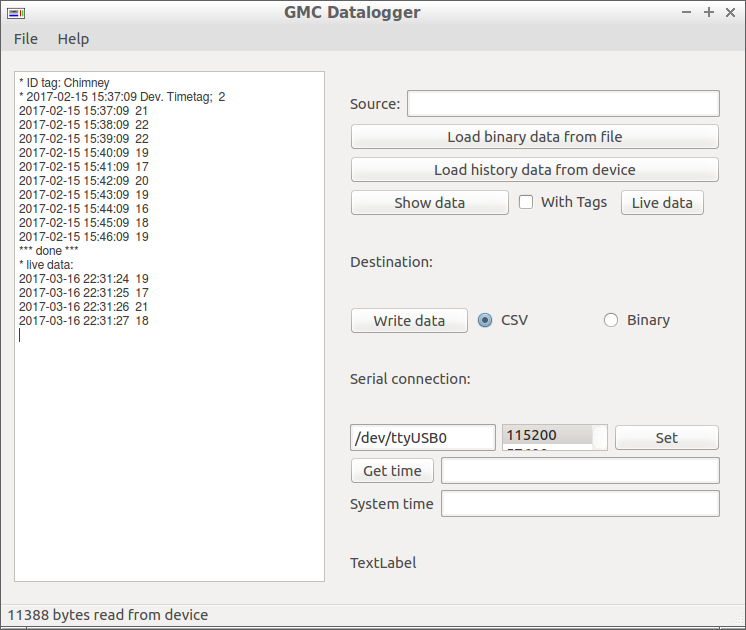
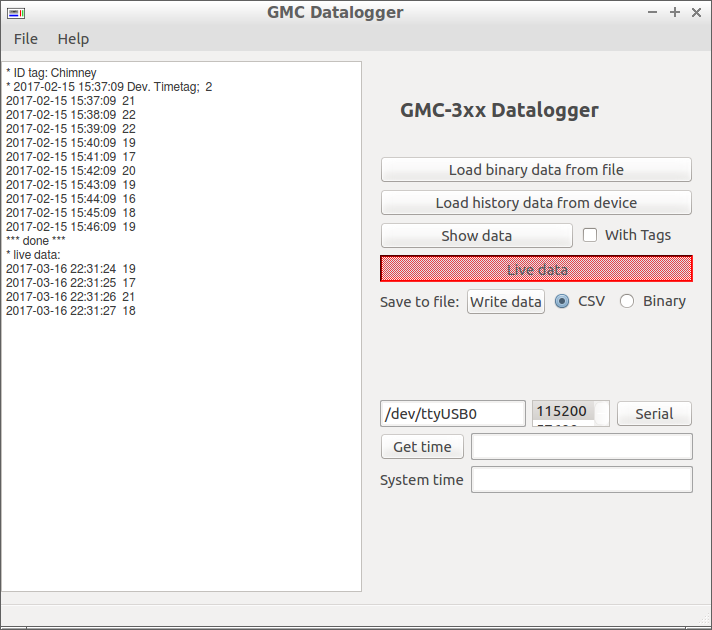
Add files via upload

diff --git a/gwcp3.py b/gwcp3.py
@@ -25,7 +25,7 @@ except AttributeError:
 class Ui_MainWindow(object):
     def setupUi(self, MainWindow):
         MainWindow.setObjectName(_fromUtf8("MainWindow"))
-        MainWindow.resize(744, 600)
+        MainWindow.resize(710, 600)
         sizePolicy = QtGui.QSizePolicy(QtGui.QSizePolicy.Ignored, QtGui.QSizePolicy.Ignored)
         sizePolicy.setHorizontalStretch(0)
         sizePolicy.setVerticalStretch(0)
@@ -34,25 +34,29 @@ class Ui_MainWindow(object):
         self.centralwidget = QtGui.QWidget(MainWindow)
         self.centralwidget.setObjectName(_fromUtf8("centralwidget"))
         self.plainTextEdit = QtGui.QPlainTextEdit(self.centralwidget)
-        self.plainTextEdit.setGeometry(QtCore.QRect(13, 20, 311, 511))
+        self.plainTextEdit.setGeometry(QtCore.QRect(0, 10, 361, 531))
         font = QtGui.QFont()
         font.setFamily(_fromUtf8("FreeSans"))
         font.setPointSize(9)
         self.plainTextEdit.setFont(font)
         self.plainTextEdit.setObjectName(_fromUtf8("plainTextEdit"))
         self.verticalLayoutWidget = QtGui.QWidget(self.centralwidget)
-        self.verticalLayoutWidget.setGeometry(QtCore.QRect(340, 30, 388, 614))
+        self.verticalLayoutWidget.setGeometry(QtCore.QRect(370, 10, 331, 441))
         self.verticalLayoutWidget.setObjectName(_fromUtf8("verticalLayoutWidget"))
         self.verticalLayout = QtGui.QVBoxLayout(self.verticalLayoutWidget)
         self.verticalLayout.setObjectName(_fromUtf8("verticalLayout"))
         self.horizontalLayout_2 = QtGui.QHBoxLayout()
         self.horizontalLayout_2.setObjectName(_fromUtf8("horizontalLayout_2"))
+        spacerItem = QtGui.QSpacerItem(20, 40, QtGui.QSizePolicy.Minimum, QtGui.QSizePolicy.Expanding)
+        self.horizontalLayout_2.addItem(spacerItem)
         self.label_9 = QtGui.QLabel(self.verticalLayoutWidget)
+        font = QtGui.QFont()
+        font.setPointSize(15)
+        font.setBold(True)
+        font.setWeight(75)
+        self.label_9.setFont(font)
         self.label_9.setObjectName(_fromUtf8("label_9"))
         self.horizontalLayout_2.addWidget(self.label_9)
-        self.lineEdit = QtGui.QLineEdit(self.verticalLayoutWidget)
-        self.lineEdit.setObjectName(_fromUtf8("lineEdit"))
-        self.horizontalLayout_2.addWidget(self.lineEdit)
         self.verticalLayout.addLayout(self.horizontalLayout_2)
         self.horizontalLayout = QtGui.QHBoxLayout()
         self.horizontalLayout.setObjectName(_fromUtf8("horizontalLayout"))
@@ -83,9 +87,6 @@ class Ui_MainWindow(object):
         self.checkBox = QtGui.QCheckBox(self.verticalLayoutWidget)
         self.checkBox.setObjectName(_fromUtf8("checkBox"))
         self.horizontalLayout_6.addWidget(self.checkBox)
-        self.pushButtonLiveData = QtGui.QPushButton(self.verticalLayoutWidget)
-        self.pushButtonLiveData.setObjectName(_fromUtf8("pushButtonLiveData"))
-        self.horizontalLayout_6.addWidget(self.pushButtonLiveData)
         self.label_12 = QtGui.QLabel(self.verticalLayoutWidget)
         self.label_12.setText(_fromUtf8(""))
         self.label_12.setObjectName(_fromUtf8("label_12"))
@@ -93,15 +94,21 @@ class Ui_MainWindow(object):
         self.verticalLayout_2.addLayout(self.horizontalLayout_6)
         self.horizontalLayout.addLayout(self.verticalLayout_2)
         self.verticalLayout.addLayout(self.horizontalLayout)
-        self.label_10 = QtGui.QLabel(self.verticalLayoutWidget)
-        self.label_10.setObjectName(_fromUtf8("label_10"))
-        self.verticalLayout.addWidget(self.label_10)
-        self.horizontalLayout_7 = QtGui.QHBoxLayout()
-        self.horizontalLayout_7.setObjectName(_fromUtf8("horizontalLayout_7"))
+        self.pushButtonLiveData = QtGui.QPushButton(self.verticalLayoutWidget)
+        self.pushButtonLiveData.setObjectName(_fromUtf8("pushButtonLiveData"))
+        self.verticalLayout.addWidget(self.pushButtonLiveData)
         self.verticalLayout_3 = QtGui.QVBoxLayout()
         self.verticalLayout_3.setObjectName(_fromUtf8("verticalLayout_3"))
         self.horizontalLayout_8 = QtGui.QHBoxLayout()
         self.horizontalLayout_8.setObjectName(_fromUtf8("horizontalLayout_8"))
+        self.label_10 = QtGui.QLabel(self.verticalLayoutWidget)
+        sizePolicy = QtGui.QSizePolicy(QtGui.QSizePolicy.Preferred, QtGui.QSizePolicy.Ignored)
+        sizePolicy.setHorizontalStretch(0)
+        sizePolicy.setVerticalStretch(0)
+        sizePolicy.setHeightForWidth(self.label_10.sizePolicy().hasHeightForWidth())
+        self.label_10.setSizePolicy(sizePolicy)
+        self.label_10.setObjectName(_fromUtf8("label_10"))
+        self.horizontalLayout_8.addWidget(self.label_10)
         self.pushButtonwritedata = QtGui.QPushButton(self.verticalLayoutWidget)
         self.pushButtonwritedata.setObjectName(_fromUtf8("pushButtonwritedata"))
         self.horizontalLayout_8.addWidget(self.pushButtonwritedata)
@@ -112,14 +119,9 @@ class Ui_MainWindow(object):
         self.radioButtonBin.setObjectName(_fromUtf8("radioButtonBin"))
         self.horizontalLayout_8.addWidget(self.radioButtonBin)
         self.verticalLayout_3.addLayout(self.horizontalLayout_8)
-        self.horizontalLayout_7.addLayout(self.verticalLayout_3)
-        self.verticalLayout.addLayout(self.horizontalLayout_7)
-        self.horizontalLayout_3 = QtGui.QHBoxLayout()
-        self.horizontalLayout_3.setObjectName(_fromUtf8("horizontalLayout_3"))
-        self.label_8 = QtGui.QLabel(self.verticalLayoutWidget)
-        self.label_8.setObjectName(_fromUtf8("label_8"))
-        self.horizontalLayout_3.addWidget(self.label_8)
-        self.verticalLayout.addLayout(self.horizontalLayout_3)
+        self.verticalLayout.addLayout(self.verticalLayout_3)
+        spacerItem1 = QtGui.QSpacerItem(20, 40, QtGui.QSizePolicy.Minimum, QtGui.QSizePolicy.Expanding)
+        self.verticalLayout.addItem(spacerItem1)
         self.verticalLayout_4 = QtGui.QVBoxLayout()
         self.verticalLayout_4.setObjectName(_fromUtf8("verticalLayout_4"))
         self.horizontalLayout_12 = QtGui.QHBoxLayout()
@@ -192,15 +194,9 @@ class Ui_MainWindow(object):
         self.horizontalLayout_15.setObjectName(_fromUtf8("horizontalLayout_15"))
         self.verticalLayout_4.addLayout(self.horizontalLayout_15)
         self.verticalLayout.addLayout(self.verticalLayout_4)
-        self.label_2 = QtGui.QLabel(self.verticalLayoutWidget)
-        self.label_2.setObjectName(_fromUtf8("label_2"))
-        self.verticalLayout.addWidget(self.label_2)
-        self.label = QtGui.QLabel(self.verticalLayoutWidget)
-        self.label.setObjectName(_fromUtf8("label"))
-        self.verticalLayout.addWidget(self.label)
         MainWindow.setCentralWidget(self.centralwidget)
         self.menubar = QtGui.QMenuBar(MainWindow)
-        self.menubar.setGeometry(QtCore.QRect(0, 0, 744, 25))
+        self.menubar.setGeometry(QtCore.QRect(0, 0, 710, 25))
         self.menubar.setObjectName(_fromUtf8("menubar"))
         self.menuFile = QtGui.QMenu(self.menubar)
         self.menuFile.setObjectName(_fromUtf8("menuFile"))
@@ -226,22 +222,20 @@ class Ui_MainWindow(object):
 
     def retranslateUi(self, MainWindow):
         MainWindow.setWindowTitle(_translate("MainWindow", "GMC Datalogger", None))
-        self.label_9.setText(_translate("MainWindow", "Source:", None))
-        self.lineEdit.setToolTip(_translate("MainWindow", "Show selected file.", None))
+        self.label_9.setText(_translate("MainWindow", "GMC-3xx Datalogger", None))
         self.pushButtonLoadBin.setText(_translate("MainWindow", "Load binary data from file", None))
         self.pushButtonLoadDevice.setText(_translate("MainWindow", "Load history data from device", None))
         self.pushButton.setText(_translate("MainWindow", "Show data", None))
         self.checkBox.setText(_translate("MainWindow", "With Tags", None))
         self.pushButtonLiveData.setToolTip(_translate("MainWindow", "(not implemented)", None))
         self.pushButtonLiveData.setText(_translate("MainWindow", "Live data", None))
-        self.label_10.setText(_translate("MainWindow", "Destination:", None))
+        self.label_10.setText(_translate("MainWindow", "Save to file:", None))
         self.pushButtonwritedata.setToolTip(_translate("MainWindow", "Write data to file.", None))
         self.pushButtonwritedata.setText(_translate("MainWindow", "Write data", None))
         self.radioButtonCSV.setToolTip(_translate("MainWindow", "Save text file", None))
         self.radioButtonCSV.setText(_translate("MainWindow", "CSV", None))
         self.radioButtonBin.setToolTip(_translate("MainWindow", "Save binary file in device format", None))
         self.radioButtonBin.setText(_translate("MainWindow", "Binary", None))
-        self.label_8.setText(_translate("MainWindow", "Serial connection:", None))
         self.lineEditsetDev.setToolTip(_translate("MainWindow", "serial interface  name", None))
         self.listWidgetspeed.setToolTip(_translate("MainWindow", "Baud rate", None))
         __sortingEnabled = self.listWidgetspeed.isSortingEnabled()
@@ -268,14 +262,12 @@ class Ui_MainWindow(object):
         item.setText(_translate("MainWindow", "1200", None))
         self.listWidgetspeed.setSortingEnabled(__sortingEnabled)
         self.pushButtonSerialSet.setToolTip(_translate("MainWindow", "Set serial connection", None))
-        self.pushButtonSerialSet.setText(_translate("MainWindow", "Set", None))
+        self.pushButtonSerialSet.setText(_translate("MainWindow", "Serial", None))
         self.pushButtongetTime.setToolTip(_translate("MainWindow", "Get device date and time", None))
         self.pushButtongetTime.setText(_translate("MainWindow", "Get time", None))
         self.lineEditgetTime.setToolTip(_translate("MainWindow", "Device Time", None))
         self.label_13.setText(_translate("MainWindow", "System time", None))
         self.lineEditSystemTime.setToolTip(_translate("MainWindow", "System time", None))
-        self.label_2.setText(_translate("MainWindow", "TextLabel", None))
-        self.label.setText(_translate("MainWindow", "TextLabel", None))
         self.menuFile.setTitle(_translate("MainWindow", "File", None))
         self.menuHelp.setTitle(_translate("MainWindow", "Help", None))
         self.actionQuit.setText(_translate("MainWindow", "&Quit", None))

diff --git a/gwcmain.py b/gwcmain.py
@@ -5,7 +5,10 @@
 '''
 Read and process history data recorded by Geiger Counter GMC-3xx
 
+Vers 0.7, 2017-03-17 (rimbus)
 
+Software may be free to use according to GPL3
+https://www.gnu.org/licenses/gpl-3.0.de.html 
 '''
 
 
@@ -30,7 +33,7 @@ class GmcApp(QtGui.QMainWindow, gwcp3.Ui_MainWindow):
         self.setupUi(self)  # automatically created in gwcp
         
         # define some global variables (might be improved later)
-        helptextname="readme.md"
+        helptextname="help.md"
         data =''
         ser=''
         serialdev='/dev/ttyUSB0'
@@ -183,6 +186,9 @@ class GmcApp(QtGui.QMainWindow, gwcp3.Ui_MainWindow):
             ser = serial.Serial(serialdev, speed, timeout= 3)
         if self.pushButtonLiveData.isChecked():
             self.writeplain("* Live data:")
+            self.pushButtonLiveData.setStyleSheet("background-color: red")
+        else:
+            self.pushButtonLiveData.setStyleSheet("background-color: none")
         ta=''
         while self.pushButtonLiveData.isChecked():
             QtGui.QApplication.processEvents()

diff --git a/gmcparse6.py b/gmcparse6.py
@@ -9,8 +9,6 @@
 # versions:
 # vers 2017-03: modified as library for GUI 
 
-
-from docopt import docopt
 import datetime
 import struct
 import time
@@ -40,7 +38,11 @@ def getCPM(ser):
     # get CPM from device
     ser.write(b'<GETCPM>>')
     rec = ser.read(2)
-    return ord(rec[0])<< 8 | ord(rec[1])
+    try:
+        s1= ord(rec[0])<< 8 | ord(rec[1])
+    except IndexError:
+        s1= ord("\x00")
+    return s1
     
     
 def getDate(ser):

diff --git a/help.md b/help.md
@@ -1,0 +1,66 @@
+# GMC-3xx Datalogger
+
+## Overview
+
+The Python routines read data logged by the Geiger-Counter GMC-3xx (_GQelectronics_).
+
+## Device
+
+GMC-3xx (GMC-300, GMC-320) is a hand held geiger counter. Is is build around a M4011-Geigertube.
+
+ * Length of tube about 100mm, 
+ * Background counts around 20 count per minute. 
+ * Size of memory: 64k. 
+
+There are several options how data may be saved: Counts per Second ever second, counts per minute (CPM) every minute or every hour, setting of a threshold, id tags in order to mark measurements.
+
+## Software Options
+
+* Reading logged memory.
+* Converting bytes back to text/time strings and counter values.
+* Reading any binary file. If no valid date/time string is found the data is probably invalid.
+* Saving text data as time vs count with or without text tags, saving binary data.
+* Reading live data, ie every second a value for CPM.
+
+## Software structure
+
+The program is  written in Python 2.7 and pyqt4.
+The routines take advantage of the ICD document by gqmc and I/O routines by Ullix (see below). The GUI source file .ui was created by the software qt-Designer and converted by ptuic4 into an appropriate Python GUI file.
+
+## Installation
+
+Requirements:
+
+* Python 2.7 and following libraries:
+* pyqt4
+* datetime
+* struct
+* time
+* os
+* serial   
+ 
+Save files below in a directory and start:
+
+    $ python gwcmain.py
+    
+Connect the device and check serial connection, eg by pressing "Get time". If connection is fine the device time is shown, together with the time of the system. If connection fails check baud rate and serial device name.
+    
+Files:
+* gwcmain.py    # main python program
+* gwcp3.py      # GUI definition file
+* gmcparse6.py  # basic I/O routines
+* gmcicon32.png # program icon
+
+The program was developed under Linux. Other operating systems may work as well, perhaps the serial interface name has to be adapted (may be valid for other Linux system as well). Windows requires a serial/usb driver.
+
+## License
+
+GNU General Public License version 3.0 (GPLv3) (https://www.gnu.org/licenses/gpl-3.0.de.html)
+
+## References:
+ * [gqmc](https://sourceforge.net/projects/gqgmc/files/gqgmc/): C-program, ICD and other documentations
+ * [ullix](https://sourceforge.net/projects/geigerlog/) Basic I/O Python routines
+ * [GQelectronics GMC Manual](https://www.gqelectronicsllc.com/comersus/store/download.asp)
+ * [GQelectronics GMC Forum](https://www.gqelectronicsllc.com/forum/forum.asp?FORUM_ID=14)
+
+
